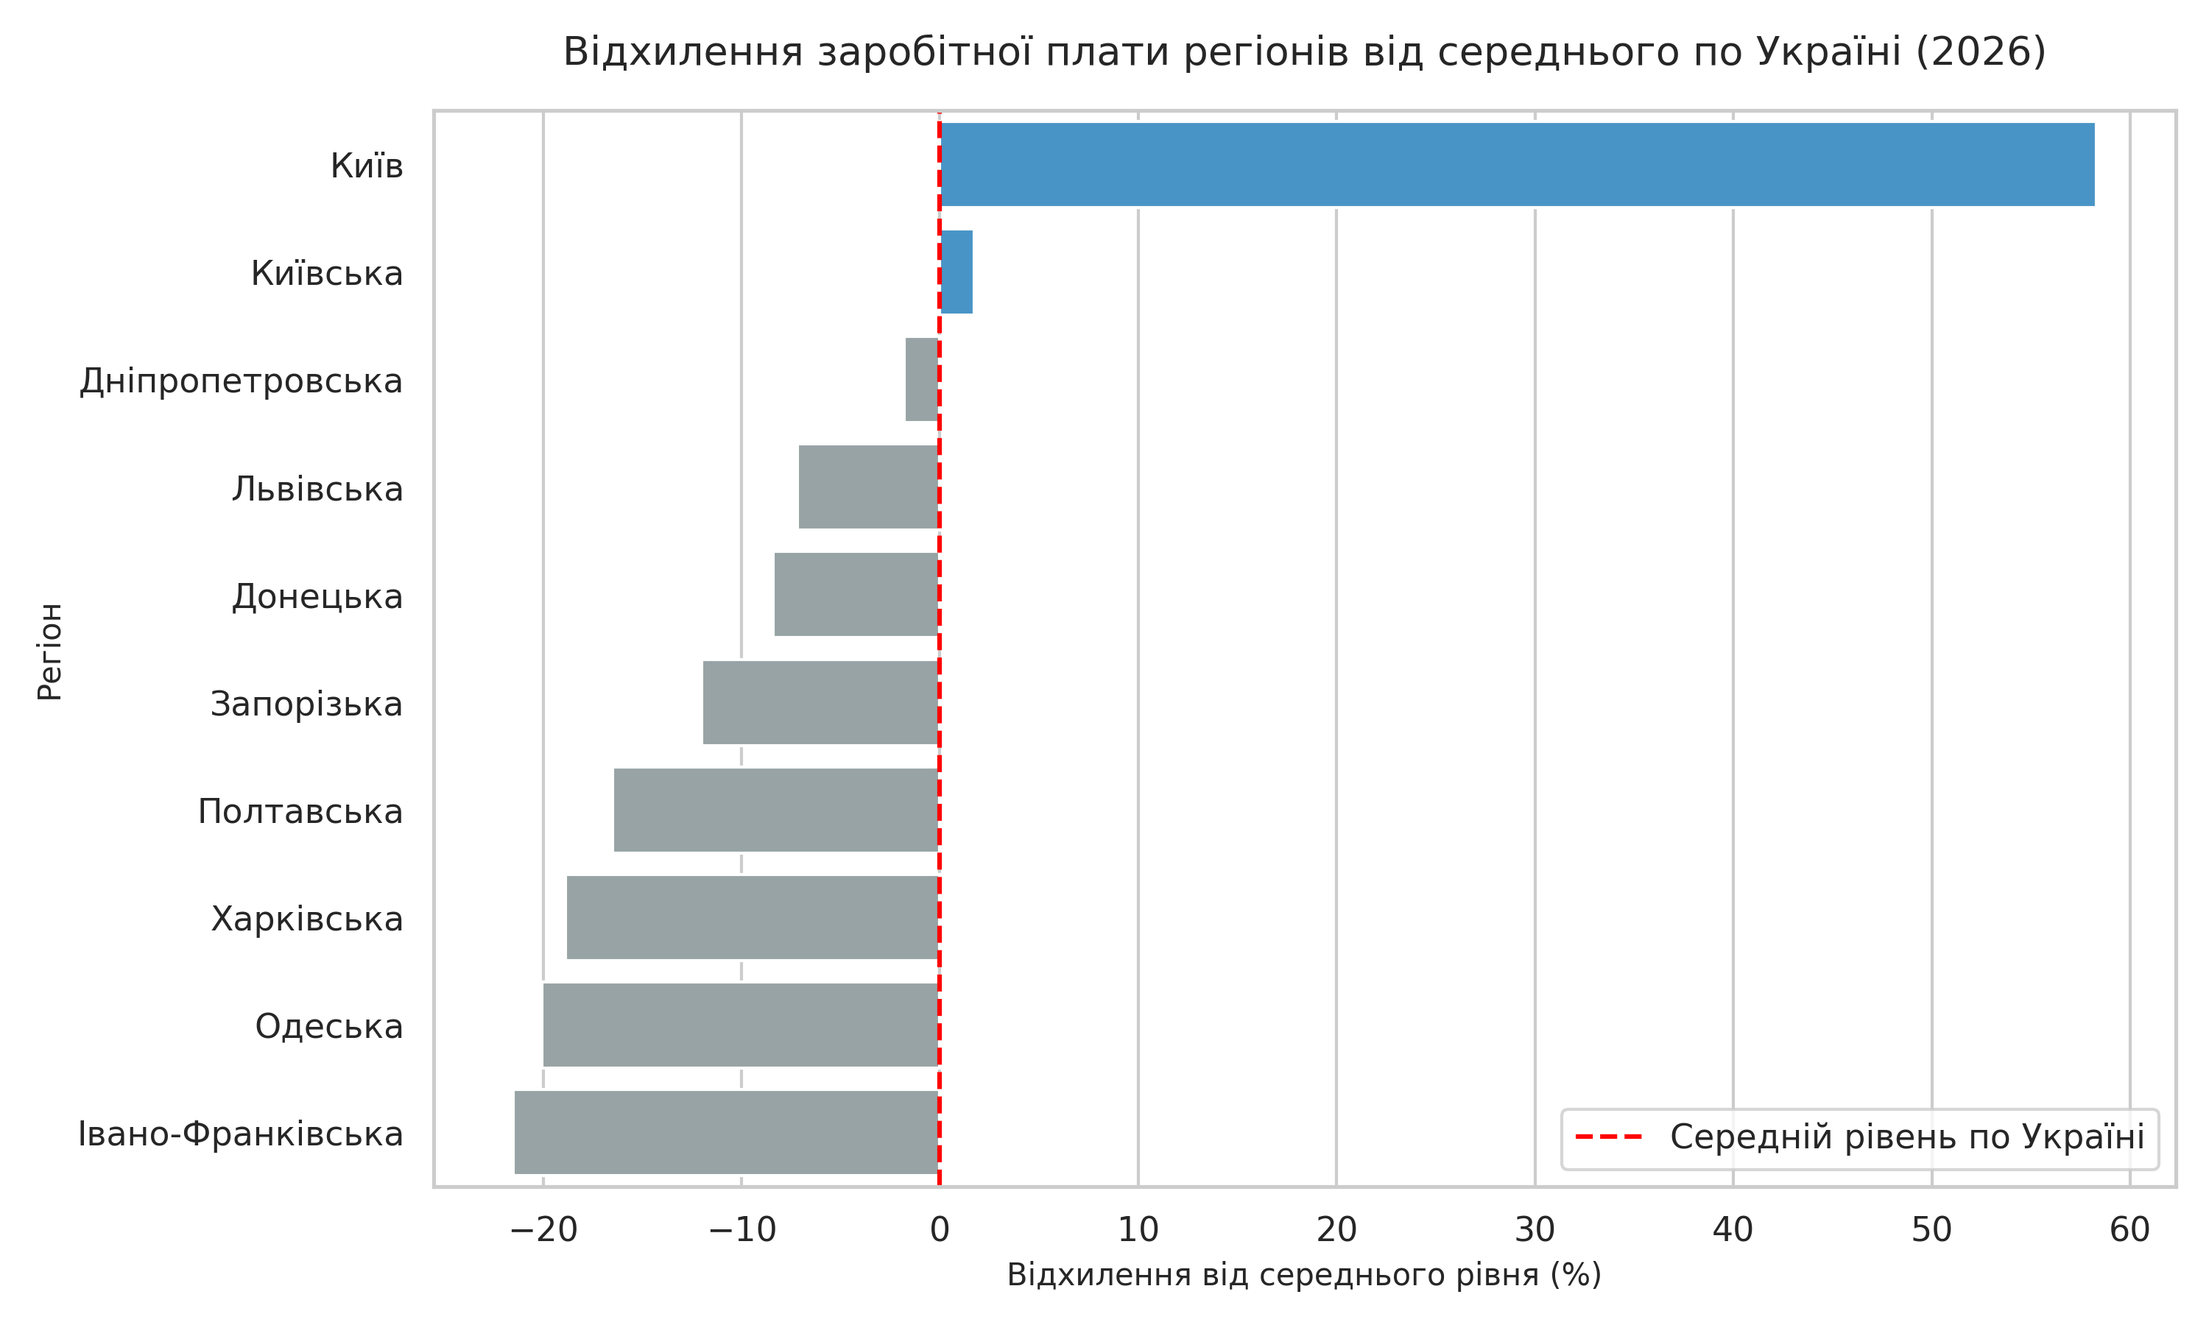
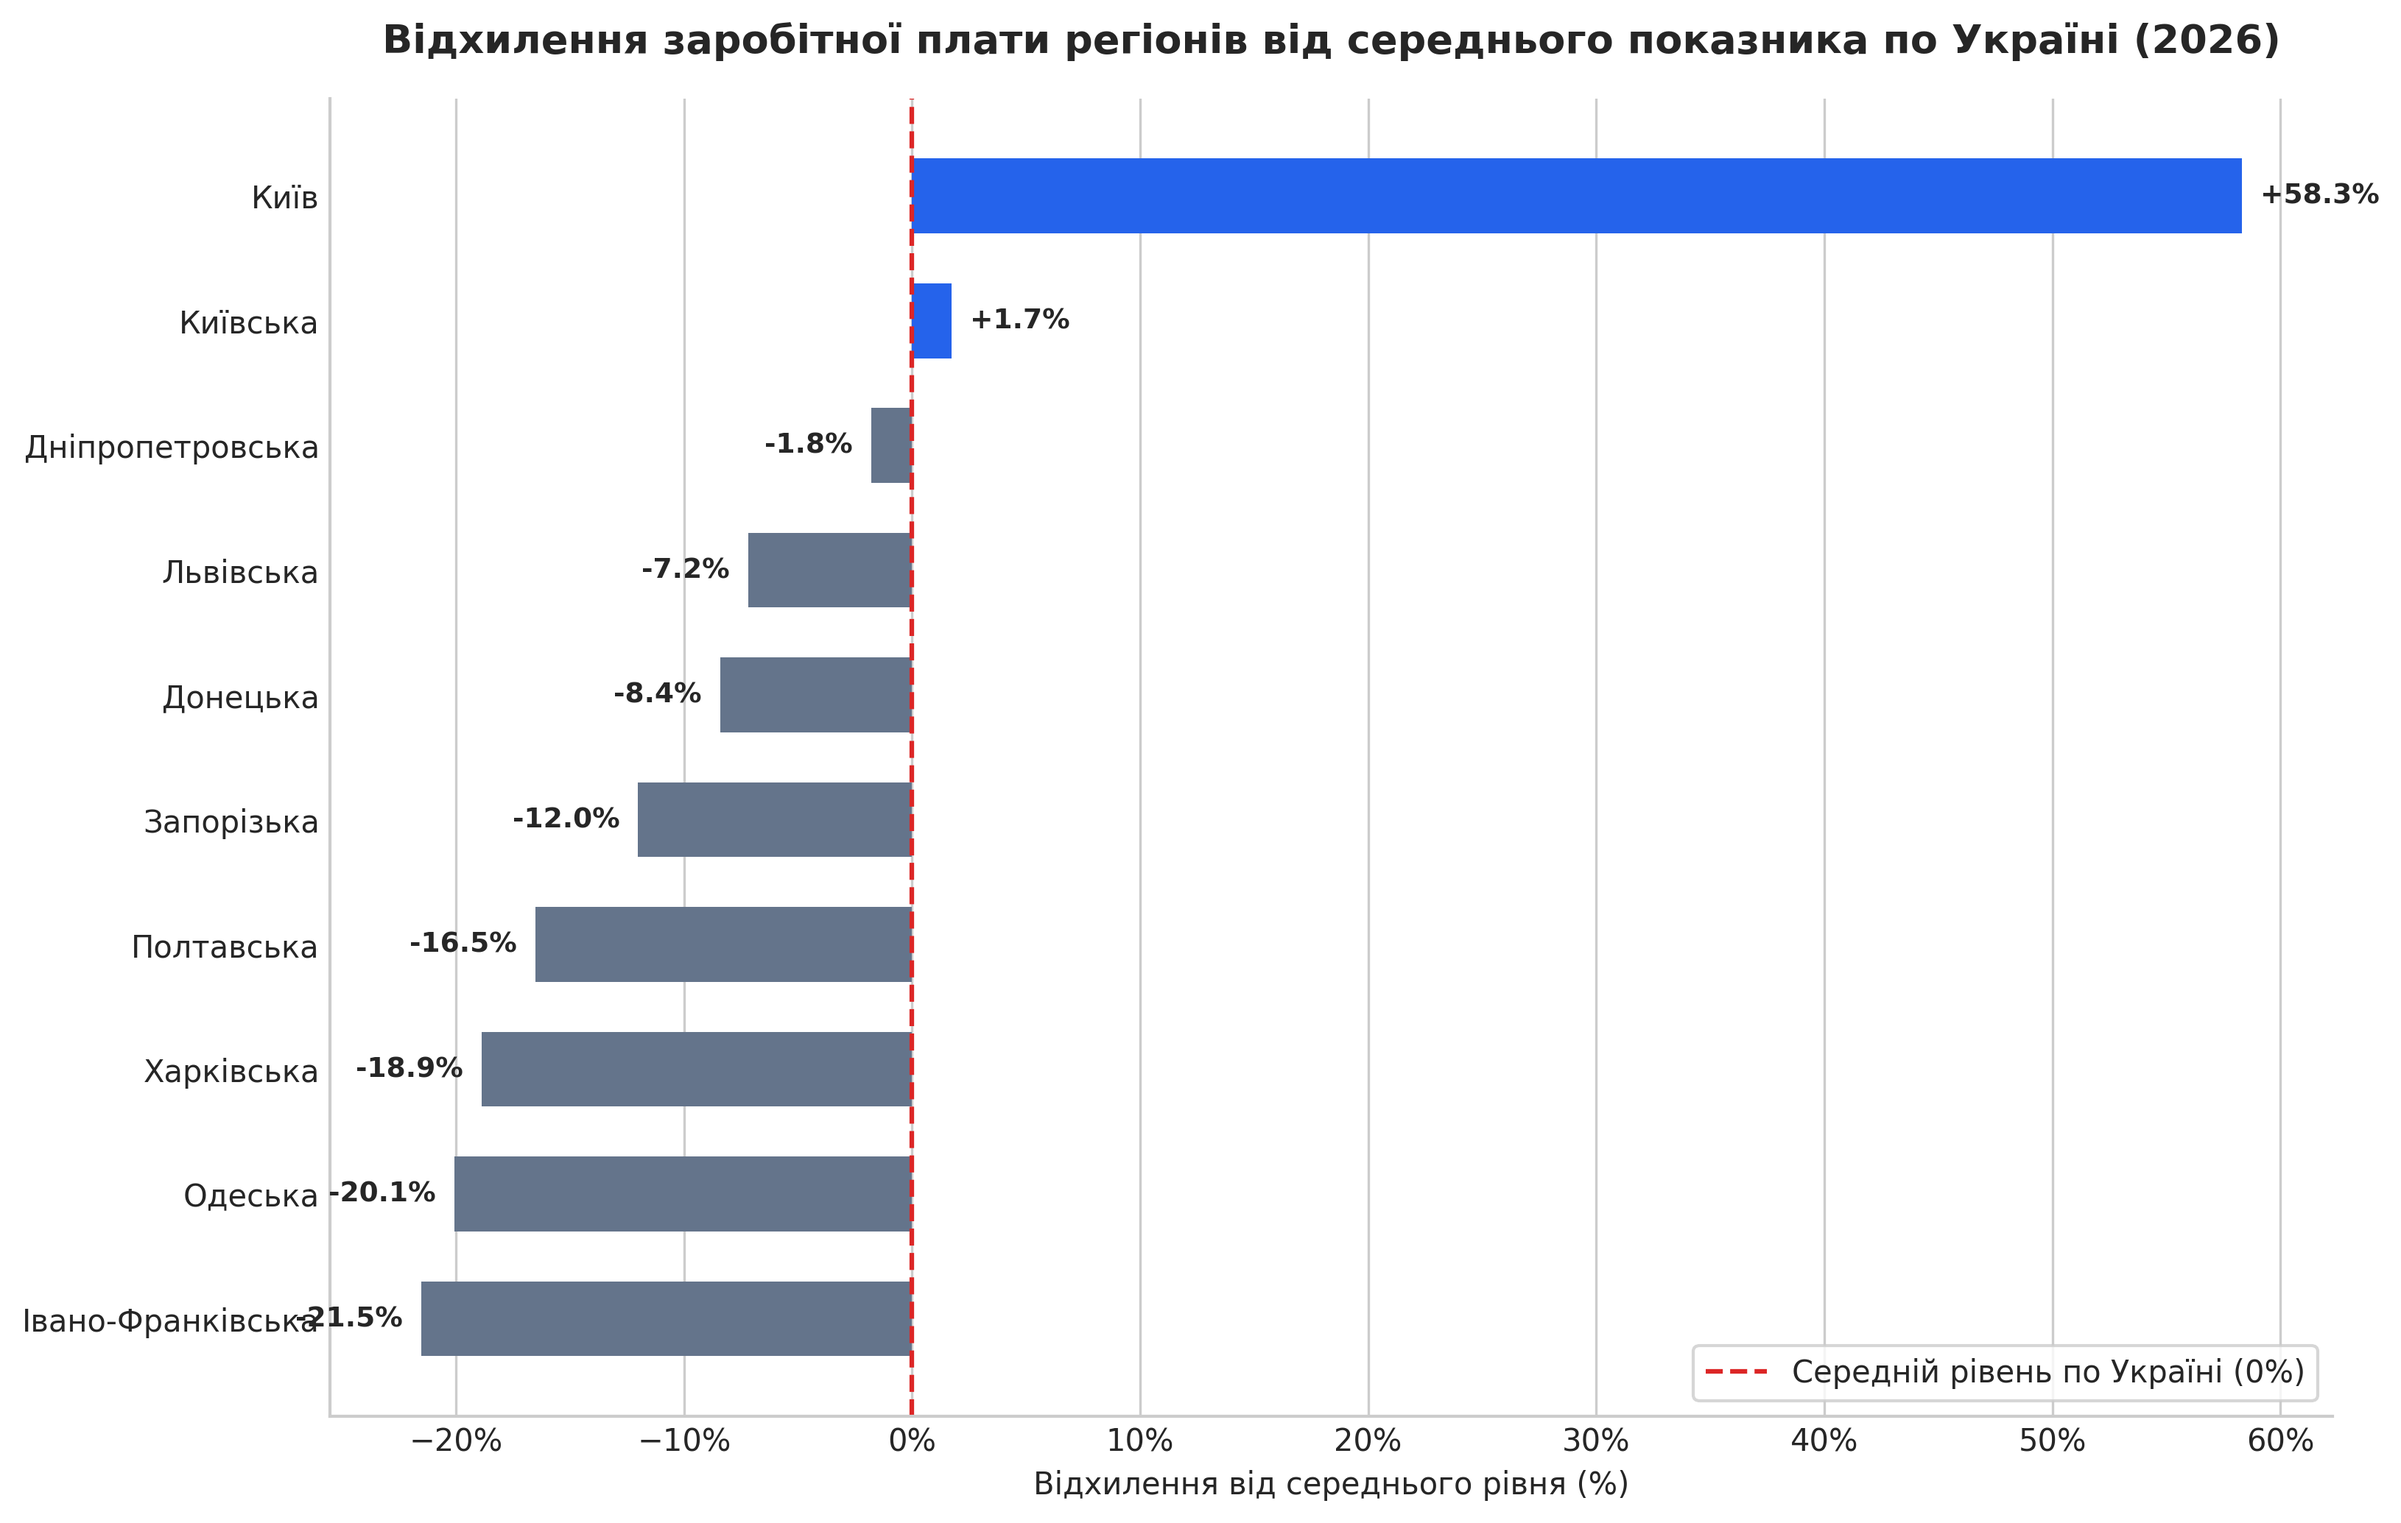
Update analyze_data with enhanced subplot visualizations

diff --git a/analyze_data.py b/analyze_data.py
@@ -1,132 +1,169 @@
 import os
+import textwrap
 import pandas as pd
 import matplotlib.pyplot as plt
+import matplotlib.ticker as ticker
 import seaborn as sns
 
-# Налаштування шляхів та стилів графіків
+# Налаштування шляхів
 PROCESSED_FILE_PATH = os.path.join("data_processed", "wages_cleaned.csv")
 REPORTS_DIR = "reports"
 os.makedirs(REPORTS_DIR, exist_ok=True)
 
-sns.set_theme(style="whitegrid", palette="muted")
-plt.rcParams.update({'font.sans-serif': 'DejaVu Sans', 'font.size': 10})
+# Загальна стилізація графіків
+plt.style.use('seaborn-v0_8-whitegrid' if 'seaborn-v0_8-whitegrid' in plt.style.available else 'default')
+plt.rcParams['font.family'] = 'DejaVu Sans'
+
 
 def load_data():
+    """Завантажує очищений датасет та приводить дати до формату datetime."""
     df = pd.read_csv(PROCESSED_FILE_PATH)
     df['date'] = pd.to_datetime(df['date'])
     return df
 
+
+def wrap_labels(labels, max_chars=35):
+    """Переносить довгі назви галузей на кілька рядків для компактності."""
+    return ['\n'.join(textwrap.wrap(label, max_chars)) for label in labels]
+
+
 def analyze_industries(df):
+    """Галузевий аналіз: ТОП-5 лідерів та аутсайдерів із подвійним сабплотом."""
     print("==================================================")
     print("1. ГАЛУЗЕВИЙ АНАЛІЗ (ПО ВСІЙ УКРАЇНІ)")
     print("==================================================")
-    
-    # Фільтруємо лише загальнонаціональні дані по галузях (виключаємо підсумковий рядок 'Усього')
+
     df_ind = df[(df['region'] == 'Україна') & (df['industry'] != 'Усього')].copy()
-    
-    # Знаходимо останній повний рік у датасеті
     latest_year = df_ind['year'].max()
     df_latest = df_ind[df_ind['year'] == latest_year]
-    
-    # Середня зарплата за останній рік за галузями
+
     avg_by_ind = (
         df_latest.groupby('industry')['salary_uah']
         .mean()
         .reset_index()
         .sort_values(by='salary_uah', ascending=False)
     )
-    
-    top_5 = avg_by_ind.head(5)
-    bottom_5 = avg_by_ind.tail(5)
-    
+
+    top_5 = avg_by_ind.head(5).copy()
+    bottom_5 = avg_by_ind.tail(5).copy().sort_values(by='salary_uah', ascending=True)
+
     print(f"\nТОП-5 галузей за середньою зарплатою у {latest_year} році (грн):")
     for idx, row in top_5.iterrows():
         print(f"  * {row['industry']}: {row['salary_uah']:,.2f} грн")
-        
+
     print(f"\nТОП-5 аутсайдерів за середньою зарплатою у {latest_year} році (грн):")
-    for idx, row in bottom_5.iterrows():
+    for idx, row in bottom_5.sort_values(by='salary_uah', ascending=False).iterrows():
         print(f"  * {row['industry']}: {row['salary_uah']:,.2f} грн")
-        
-    # Співвідношення розриву
-    gap_ratio = top_5.iloc[0]['salary_uah'] / bottom_5.iloc[-1]['salary_uah']
+
+    gap_ratio = top_5.iloc[0]['salary_uah'] / bottom_5.iloc[0]['salary_uah']
     print(f"\nРозрив між абсолютним лідером і аутсайдером: у {gap_ratio:.2f} раза")
 
-    # Візуалізація рейтингу
-    plt.figure(figsize=(12, 8))
-    chart_data = pd.concat([top_5, bottom_5])
-    palette = ['#2ecc71' if i < 5 else '#e74c3c' for i in range(len(chart_data))]
-    
-    ax = sns.barplot(
-        data=chart_data,
-        x='salary_uah',
-        y='industry',
-        palette=palette
-    )
-    plt.title(f"ТОП-5 найбільш та найменш оплачуваних галузей України ({latest_year})", fontsize=14, pad=15)
-    plt.xlabel("Середня заробітна плата (грн)", fontsize=11)
-    plt.ylabel("Галузь (КВЕД)", fontsize=11)
-    
-    for p in ax.patches:
-        width = p.get_width()
-        ax.annotate(f"{width:,.0f} грн", (width + 500, p.get_y() + p.get_height() / 2.),
-                    va='center', fontsize=9)
-        
+    # Побудова двох паралельних графіків
+    fig, (ax1, ax2) = plt.subplots(1, 2, figsize=(15, 6), sharex=False)
+    fig.suptitle(f"Рейтинг галузей України за середньою заробітною платою ({latest_year})", 
+                 fontsize=14, fontweight='bold', y=0.98)
+
+    # 1. Лідери
+    bars1 = ax1.barh(wrap_labels(top_5['industry']), top_5['salary_uah'], color='#10b981', height=0.55)
+    ax1.set_title("ТОП-5 Галузей-лідерів", fontsize=12, fontweight='bold', pad=12)
+    ax1.invert_yaxis()
+    ax1.set_xlabel("Заробітна плата (грн)", fontsize=10)
+    ax1.xaxis.set_major_formatter(ticker.StrMethodFormatter('{x:,.0f}'))
+    ax1.grid(axis='y', linestyle='')
+    ax1.spines[['top', 'right']].set_visible(False)
+
+    for bar in bars1:
+        w = bar.get_width()
+        ax1.annotate(f"{w:,.0f} грн",
+                     xy=(w, bar.get_y() + bar.get_height() / 2),
+                     xytext=(6, 0), textcoords="offset points",
+                     va='center', fontsize=9, fontweight='bold', color='#065f46')
+
+    # 2. Аутсайдери
+    bars2 = ax2.barh(wrap_labels(bottom_5['industry']), bottom_5['salary_uah'], color='#ef4444', height=0.55)
+    ax2.set_title("ТОП-5 Найменш оплачуваних галузей", fontsize=12, fontweight='bold', pad=12)
+    ax2.set_xlabel("Заробітна плата (грн)", fontsize=10)
+    ax2.xaxis.set_major_formatter(ticker.StrMethodFormatter('{x:,.0f}'))
+    ax2.grid(axis='y', linestyle='')
+    ax2.spines[['top', 'right']].set_visible(False)
+
+    for bar in bars2:
+        w = bar.get_width()
+        ax2.annotate(f"{w:,.0f} грн",
+                     xy=(w, bar.get_y() + bar.get_height() / 2),
+                     xytext=(6, 0), textcoords="offset points",
+                     va='center', fontsize=9, fontweight='bold', color='#991b1b')
+
     plt.tight_layout()
-    plt.savefig(os.path.join(REPORTS_DIR, "top_bottom_industries.png"), dpi=300)
+    plt.savefig(os.path.join(REPORTS_DIR, "top_bottom_industries.png"), dpi=300, bbox_inches='tight')
     plt.close()
-    print(f" Графік збережено: {REPORTS_DIR}/top_bottom_industries.png")
+    print(f" Графік галузей оновлено: {REPORTS_DIR}/top_bottom_industries.png")
 
 
 def analyze_regions(df):
+    """Регіональний аналіз: розрахунок відхилень від бенчмарку та візуалізація."""
     print("\n==================================================")
     print("2. РЕГІОНАЛЬНИЙ АНАЛІЗ")
     print("==================================================")
-    
-    # Фільтруємо агреговані зарплати по регіонах
+
     df_reg = df[df['industry'] == 'Усього'].copy()
     latest_year = df_reg['year'].max()
     df_reg_latest = df_reg[df_reg['year'] == latest_year]
-    
+
     avg_by_reg = (
         df_reg_latest.groupby('region')['salary_uah']
         .mean()
         .reset_index()
-        .sort_values(by='salary_uah', ascending=False)
+        .sort_values(by='salary_uah', ascending=True)
     )
-    
-    # Знаходимо середнє по Україні як бенчмарк
+
     ukraine_benchmark = avg_by_reg[avg_by_reg['region'] == 'Україна']['salary_uah'].values[0]
+    avg_by_reg = avg_by_reg[avg_by_reg['region'] != 'Україна'].copy()
     avg_by_reg['diff_pct'] = ((avg_by_reg['salary_uah'] - ukraine_benchmark) / ukraine_benchmark) * 100
-    
+
     print(f"\nБенчмарк по Україні ({latest_year} рік): {ukraine_benchmark:,.2f} грн")
     print("\nВідхилення зарплат у регіонах від середнього рівня по країні:")
-    for idx, row in avg_by_reg.iterrows():
-        if row['region'] != 'Україна':
-            sign = "+" if row['diff_pct'] > 0 else ""
-            print(f"  * {row['region']}: {row['salary_uah']:,.2f} грн ({sign}{row['diff_pct']:.1f}%)")
-            
-    # Візуалізація регіонів
-    plt.figure(figsize=(10, 6))
-    reg_plot_data = avg_by_reg[avg_by_reg['region'] != 'Україна']
-    colors = ['#3498db' if x > 0 else '#95a5a6' for x in reg_plot_data['diff_pct']]
-    
-    sns.barplot(data=reg_plot_data, x='diff_pct', y='region', palette=colors)
-    plt.axvline(0, color='red', linestyle='--', linewidth=1.5, label='Середній рівень по Україні')
-    plt.title(f"Відхилення заробітної плати регіонів від середнього по Україні ({latest_year})", fontsize=13, pad=15)
+    for idx, row in avg_by_reg.sort_values(by='salary_uah', ascending=False).iterrows():
+        sign = "+" if row['diff_pct'] > 0 else ""
+        print(f"  * {row['region']}: {row['salary_uah']:,.2f} грн ({sign}{row['diff_pct']:.1f}%)")
+
+    # Побудова графіка регіональних відхилень
+    plt.figure(figsize=(11, 7))
+    colors = ['#2563eb' if x > 0 else '#64748b' for x in avg_by_reg['diff_pct']]
+
+    bars = plt.barh(avg_by_reg['region'], avg_by_reg['diff_pct'], color=colors, height=0.6)
+    plt.axvline(0, color='#dc2626', linestyle='--', linewidth=1.5, label='Середній рівень по Україні (0%)')
+
+    plt.title(f"Відхилення заробітної плати регіонів від середнього показника по Україні ({latest_year})", 
+              fontsize=13, fontweight='bold', pad=15)
     plt.xlabel("Відхилення від середнього рівня (%)", fontsize=10)
-    plt.ylabel("Регіон", fontsize=10)
-    plt.legend()
+    plt.gca().xaxis.set_major_formatter(ticker.PercentFormatter())
+    plt.grid(axis='y', linestyle='')
+    plt.gca().spines[['top', 'right']].set_visible(False)
+    plt.legend(frameon=True, loc='lower right')
+
+    for bar in bars:
+        w = bar.get_width()
+        text_sign = f"+{w:.1f}%" if w > 0 else f"{w:.1f}%"
+        x_offset = 6 if w >= 0 else -6
+        ha_align = 'left' if w >= 0 else 'right'
+        plt.annotate(text_sign,
+                     xy=(w, bar.get_y() + bar.get_height() / 2),
+                     xytext=(x_offset, 0), textcoords="offset points",
+                     va='center', ha=ha_align, fontsize=9, fontweight='bold')
+
     plt.tight_layout()
-    plt.savefig(os.path.join(REPORTS_DIR, "regional_comparison.png"), dpi=300)
+    plt.savefig(os.path.join(REPORTS_DIR, "regional_comparison.png"), dpi=300, bbox_inches='tight')
     plt.close()
-    print(f" Графік збережено: {REPORTS_DIR}/regional_comparison.png")
+    print(f" Графік регіонів оновлено: {REPORTS_DIR}/regional_comparison.png")
 
 
 def calculate_descriptive_stats(df):
+    """Розрахунок описової статистики та індикаторів нерівності."""
     print("\n==================================================")
     print("3. ОПИСОВА СТАТИСТИКА ТА НЕРІВНІСТЬ ДОХОДІВ")
     print("==================================================")
-    
+
     salaries = df[df['industry'] != 'Усього']['salary_uah']
     mean_val = salaries.mean()
     median_val = salaries.median()
@@ -135,7 +172,7 @@ def calculate_descriptive_stats(df):
     q25 = salaries.quantile(0.25)
     q75 = salaries.quantile(0.75)
     iqr_val = q75 - q25
-    
+
     print(f"Середнє арифметичне: {mean_val:,.2f} грн")
     print(f"Медіана:              {median_val:,.2f} грн")
     print(f"Стандартне відхилення:{std_val:,.2f} грн")
